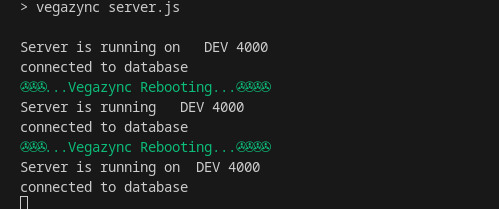
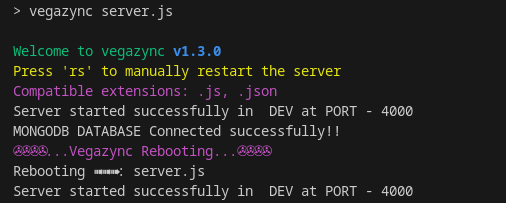
v1.3.1

diff --git a/lib/vegazync.js b/lib/vegazync.js
@@ -1,6 +1,5 @@
 #!/usr/bin/env node
 
-
 const { spawn } = require('child_process');
 const chokidar = require('chokidar');
 const path = require('path');
@@ -12,19 +11,14 @@ let pathsTowatch = [
     path.join(process.cwd(), "/**/*.json"),
 ]
 let preload = null;
-let message = "✇✇✇✇...Vegazync Rebooting...✇✇✇✇";
-let rebootingMessage = `\x1b[32m${message}\x1b[1m`;
-let currentFile = "Rebooting ➠➠➠:";
-let ColoredCurrentFile = `\x1b[36m${currentFile}\x1b[3m`;
-let version = "v1.2.5";
-let ColoredVersion = `\x1b[34m${version}\x1b[0m`;
-let manualRestartMessage = "Press 'rs' to manually restart the server";
-let ColoredManualRestartMessage = `\x1b[33m${manualRestartMessage}\x1b[0m`;
-let compatibleExtensionsMessage = "Compatible extensions: .js, .json";
-let ColoredCompatibleExtensionsMessage = `\x1b[35m${compatibleExtensionsMessage}\x1b[0m`;
+let WelcomeMessage = `\x1b[32m${"Welcome to vegazync"}\x1b[1m`;
+let rebootingMessage = `\x1b[35m${"✇✇✇✇...Vegazync Rebooting...✇✇✇✇"}\x1b[0m`;
+let ColoredVersion = `\x1b[34m${"v1.3.1"}\x1b[0m`;
+let ColoredManualRestartMessage = `\x1b[33m${"Press 'rs' to manually restart the server"}\x1b[0m`;
+let ColoredCompatibleExtensionsMessage = `\x1b[35m${"Compatible extensions: .js, .json"}\x1b[0m`;
 
 if (process.argv.length === 3) {
-    console.log("Welcome to Vegazync!",ColoredVersion);
+    console.log(WelcomeMessage,ColoredVersion);
     console.log(ColoredManualRestartMessage);
     console.log(ColoredCompatibleExtensionsMessage);
     init()
@@ -42,8 +36,12 @@ function init() {
 
     process.stdin.on('data', async (chunk) => {
         const data = chunk.toString()
-        if (data.includes('rs')) {
+        if (data.includes('r')) {
             await reload()
+        }
+
+        if(data.includes('c')){
+            await closeHandler()
         }
     })
 
@@ -61,8 +59,8 @@ function startProcess() {
 
     childProcess.on('close', () => {
         processClosed = true
-        console.log(rebootingMessage)   
-        console.log(ColoredCurrentFile,process.argv[2]);
+        console.log(rebootingMessage) ;  
+        console.log("Rebooting ➠➠➠:",process.argv[2]);
     })
 
     childProcess.on('error', (err) => {

diff --git a/readme.md b/readme.md
@@ -1,4 +1,4 @@
-# Vegazync v1.2.6
+# Vegazync v1.3.1
 
 vegazync is used to watch and monitor all of your project files so you dont need to restart manually and let vegazync handle it for you. It can monitor any type of changes in  ".js" & ".json"  files which will make your development smooth and easy.
 
@@ -30,7 +30,11 @@ Inside package.json file add a script
 ```
 ## Manual Restart
 
-You can manually restart vegazync via typing 'rs' in the terminal
+You can manually restart vegazync via typing 'r' in the terminal
+
+## Stop
+
+To stop and exit the process you can type 'c' in the terminal
 
 ## Contributing
 
